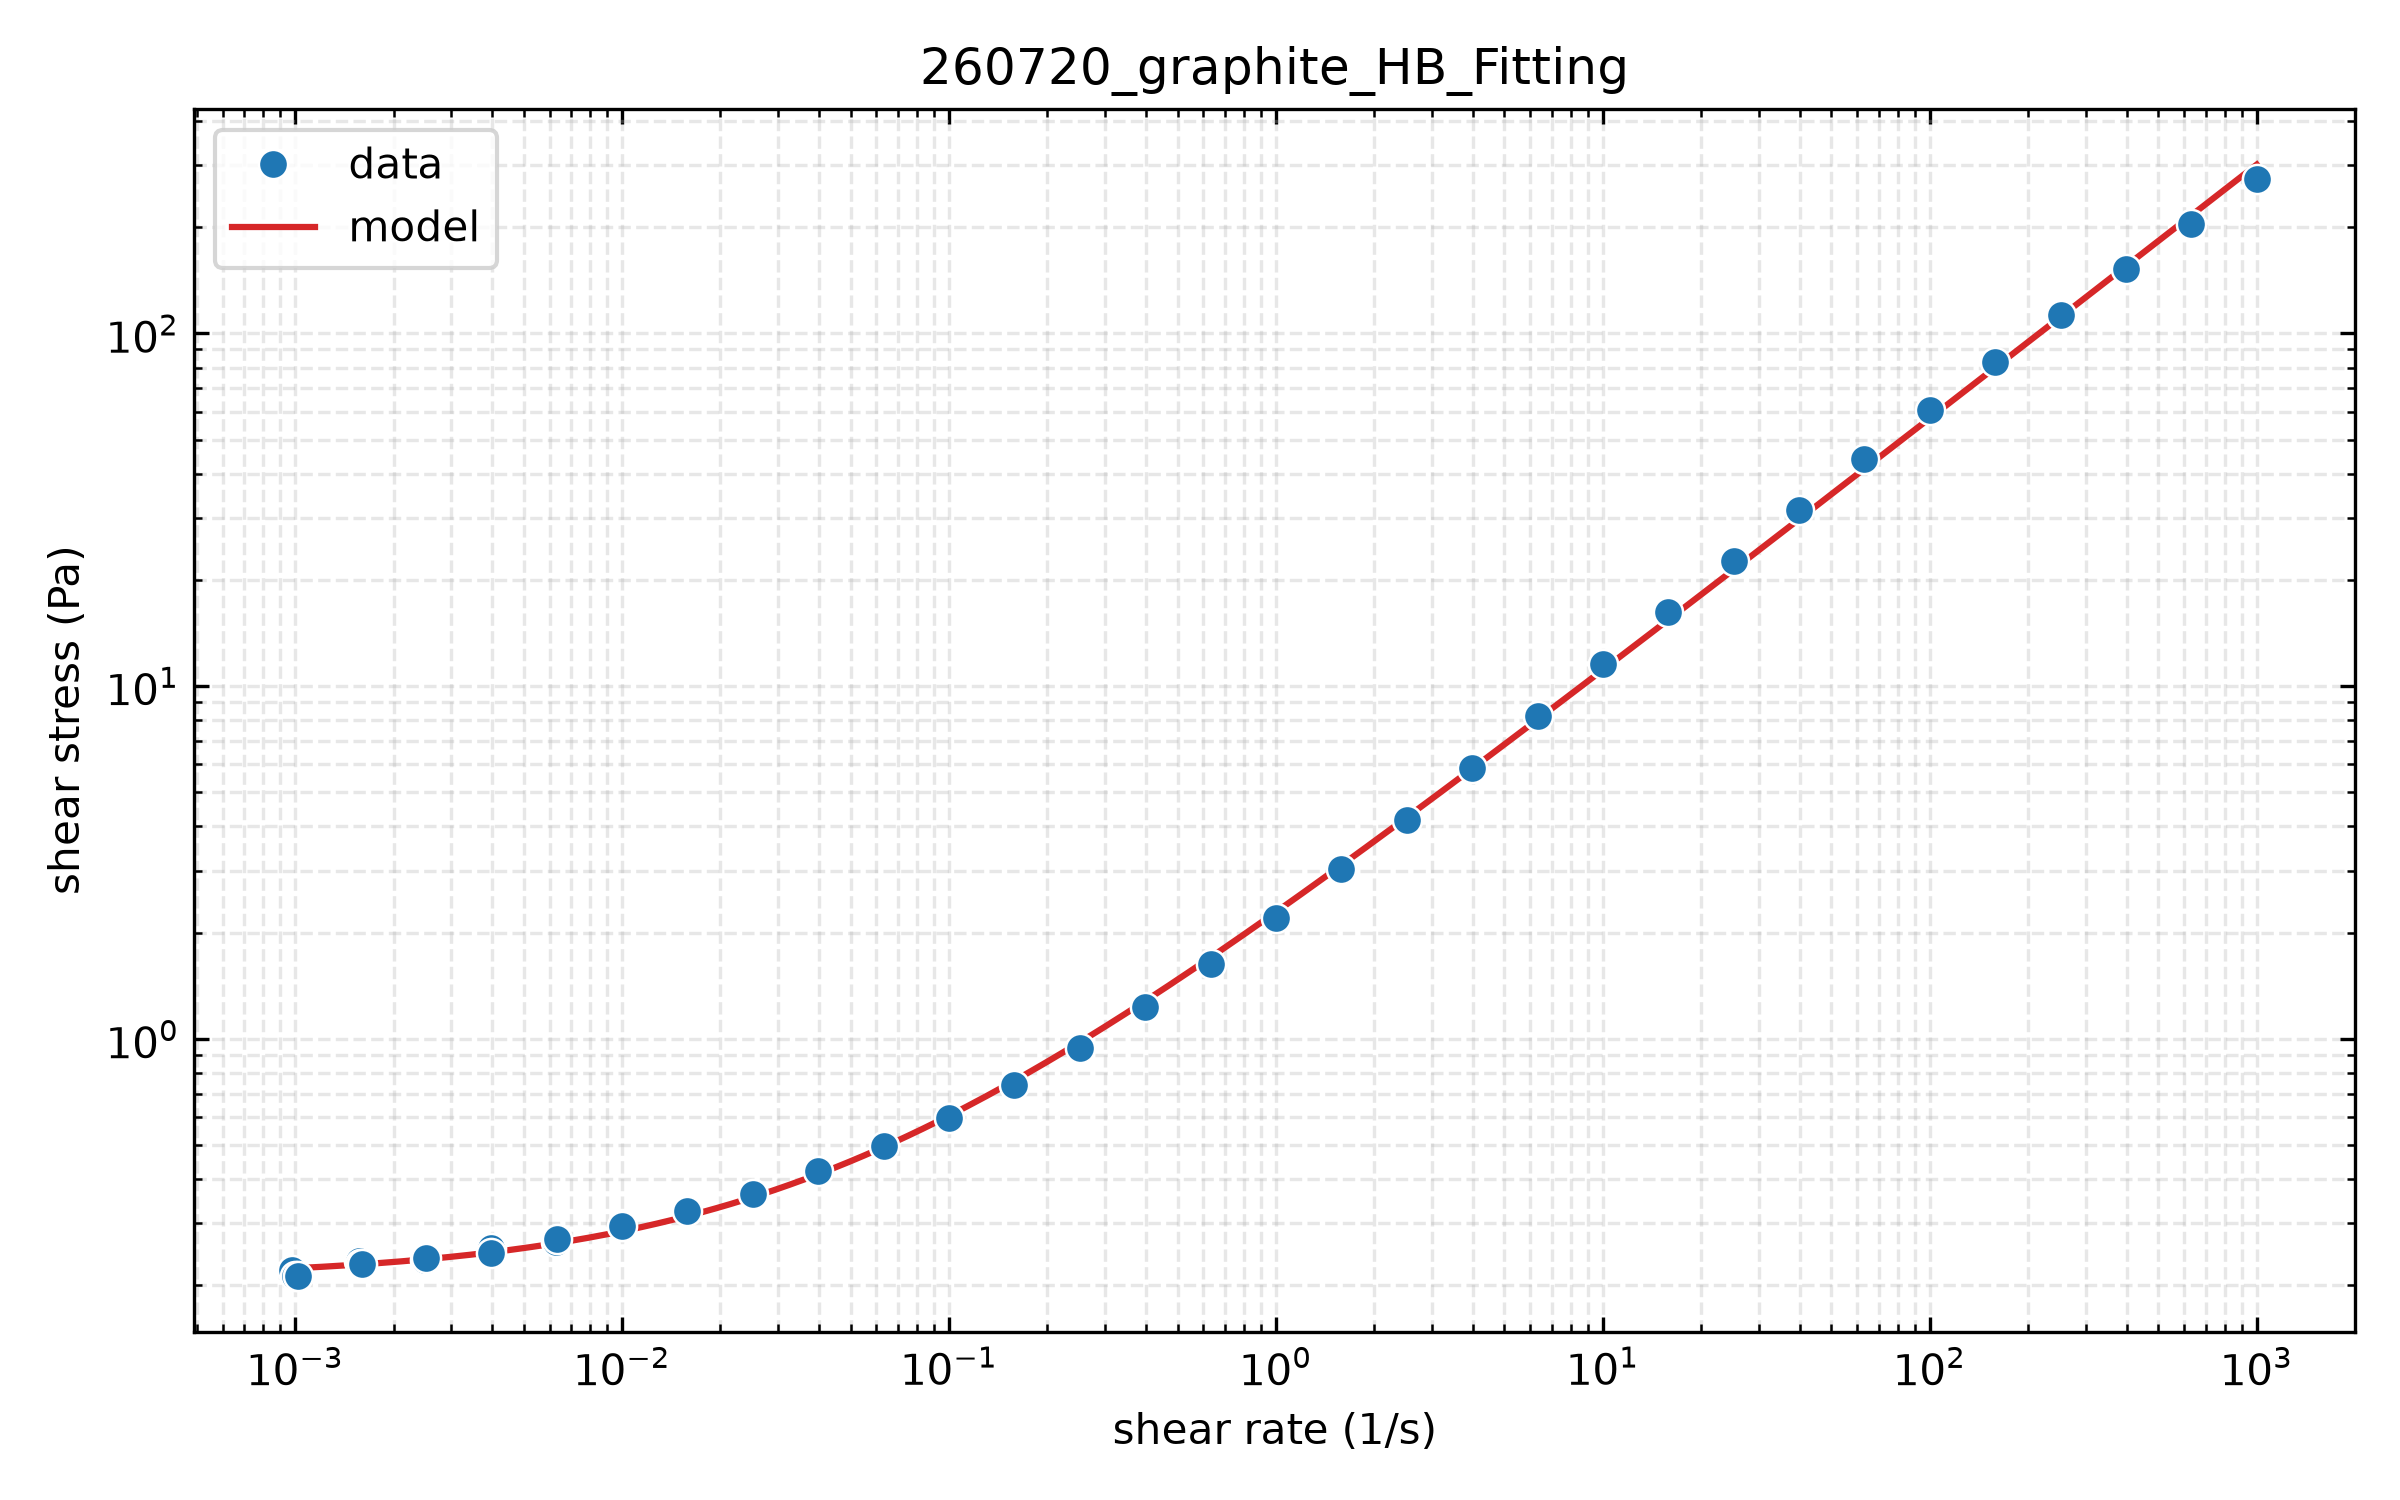
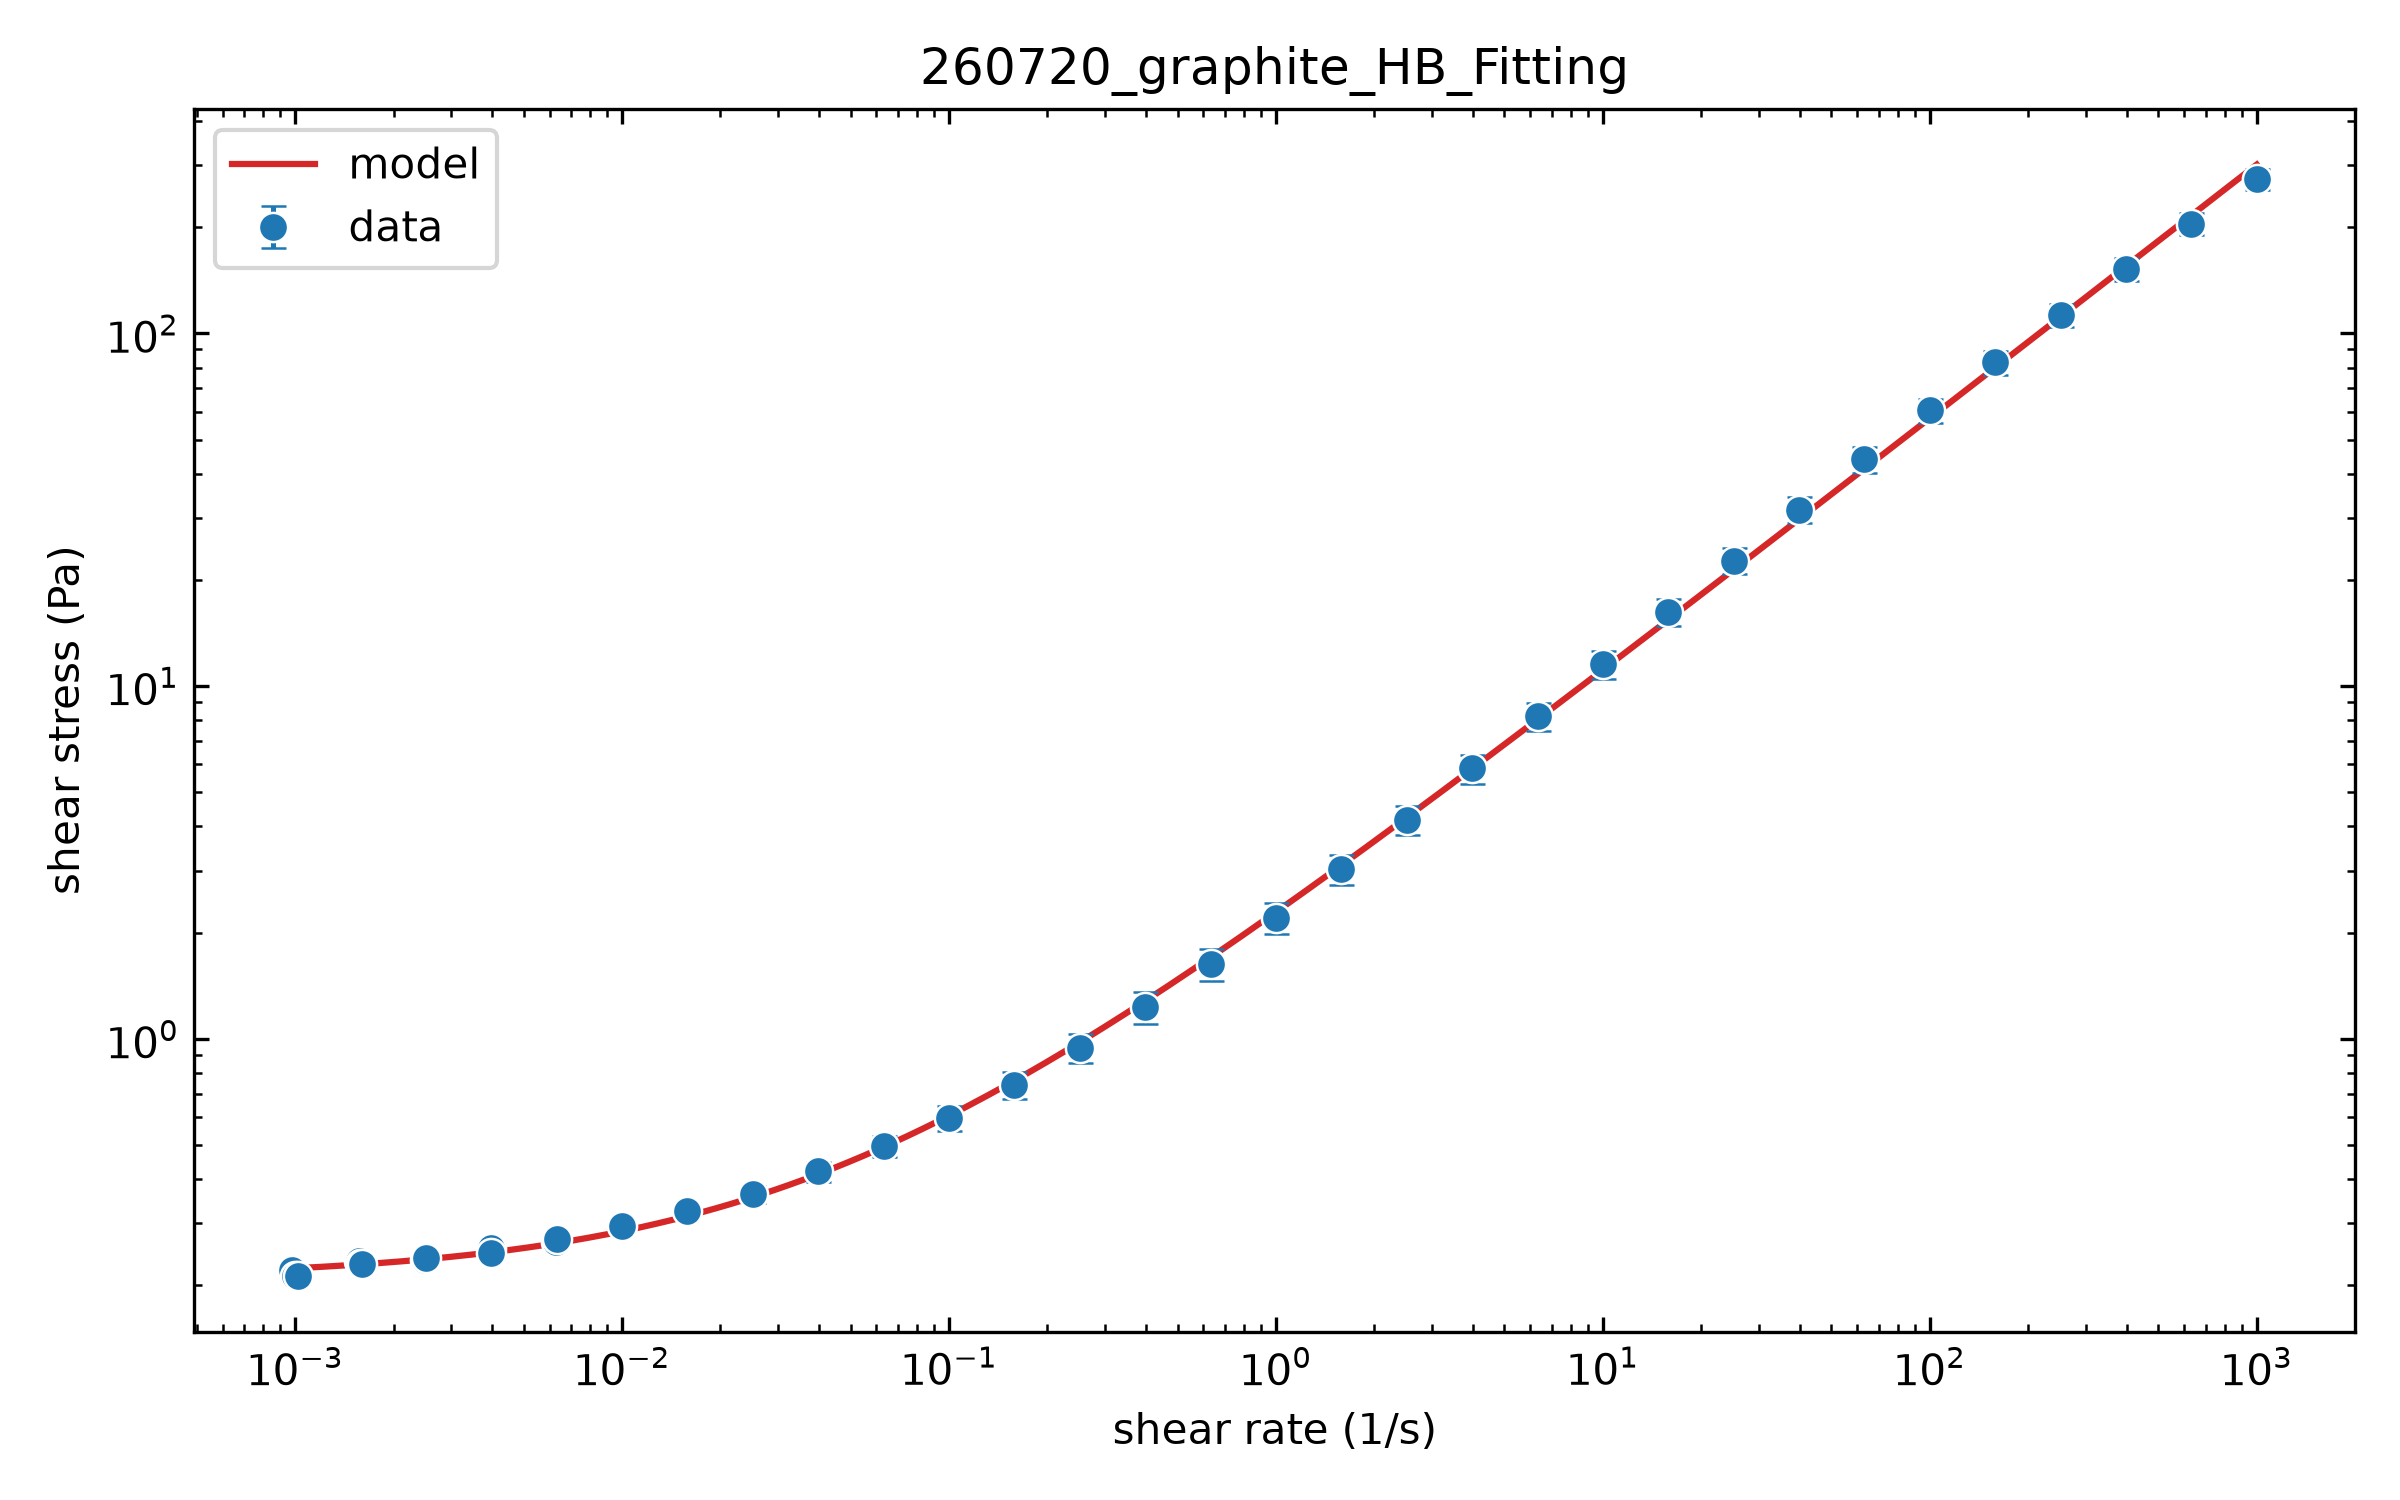
260721

Changed region(s): [[0.0938, 0.092, 0.2188, 0.184]]

diff --git a/260721_anode_visc._HB/fit_260720_hb.py b/260721_anode_visc._HB/fit_260720_hb.py
@@ -67,13 +67,14 @@ def load_and_average(path, rtol=2e-3):
 
     gamma = np.array([np.mean([p[0] for p in c]) for c in clusters], dtype=float)
     tau = np.array([np.mean([p[1] for p in c]) for c in clusters], dtype=float)
+    tau_err = np.array([np.std([p[1] for p in c], ddof=0) for c in clusters], dtype=float)
 
     order = np.argsort(gamma)
-    return gamma[order], tau[order]
+    return gamma[order], tau[order], tau_err[order]
 
 
 def fit_hb(path):
-    gamma, tau = load_and_average(path)
+    gamma, tau, tau_err = load_and_average(path)
 
     def relative_squared_error_sum(params):
         tau_y, k, n = params
@@ -115,14 +116,28 @@ def fit_hb(path):
     y_fit = herschel_bulkley(x_fit, tau_y_fit, k_fit, n_fit)
 
     fig, ax = plt.subplots(figsize=(8, 5))
-    # plot averaged data only
-    ax.loglog(gamma, tau, 'o', color='tab:blue', label='data', markersize=7, markeredgewidth=0.6, markeredgecolor='white', zorder=4)
+    # plot averaged data only with error bars
+    ax.errorbar(
+        gamma,
+        tau,
+        yerr=tau_err,
+        fmt='o',
+        color='tab:blue',
+        label='data',
+        markersize=7,
+        markeredgewidth=0.6,
+        markeredgecolor='white',
+        elinewidth=1.2,
+        capsize=3,
+        capthick=1.0,
+        zorder=4,
+    )
     ax.loglog(x_fit, y_fit, '-', color='tab:red', label='model', zorder=3)
     ax.set_title('260720_graphite_HB_Fitting')
     ax.set_xlabel('shear rate (1/s)')
     ax.set_ylabel('shear stress (Pa)')
     ax.legend()
-    ax.grid(True, which='both', linestyle='--', alpha=0.3)
+    ax.grid(False)
     ax.tick_params(axis='both', which='major', direction='in', top=True, right=True)
     ax.tick_params(axis='both', which='minor', direction='in', top=True, right=True)
 